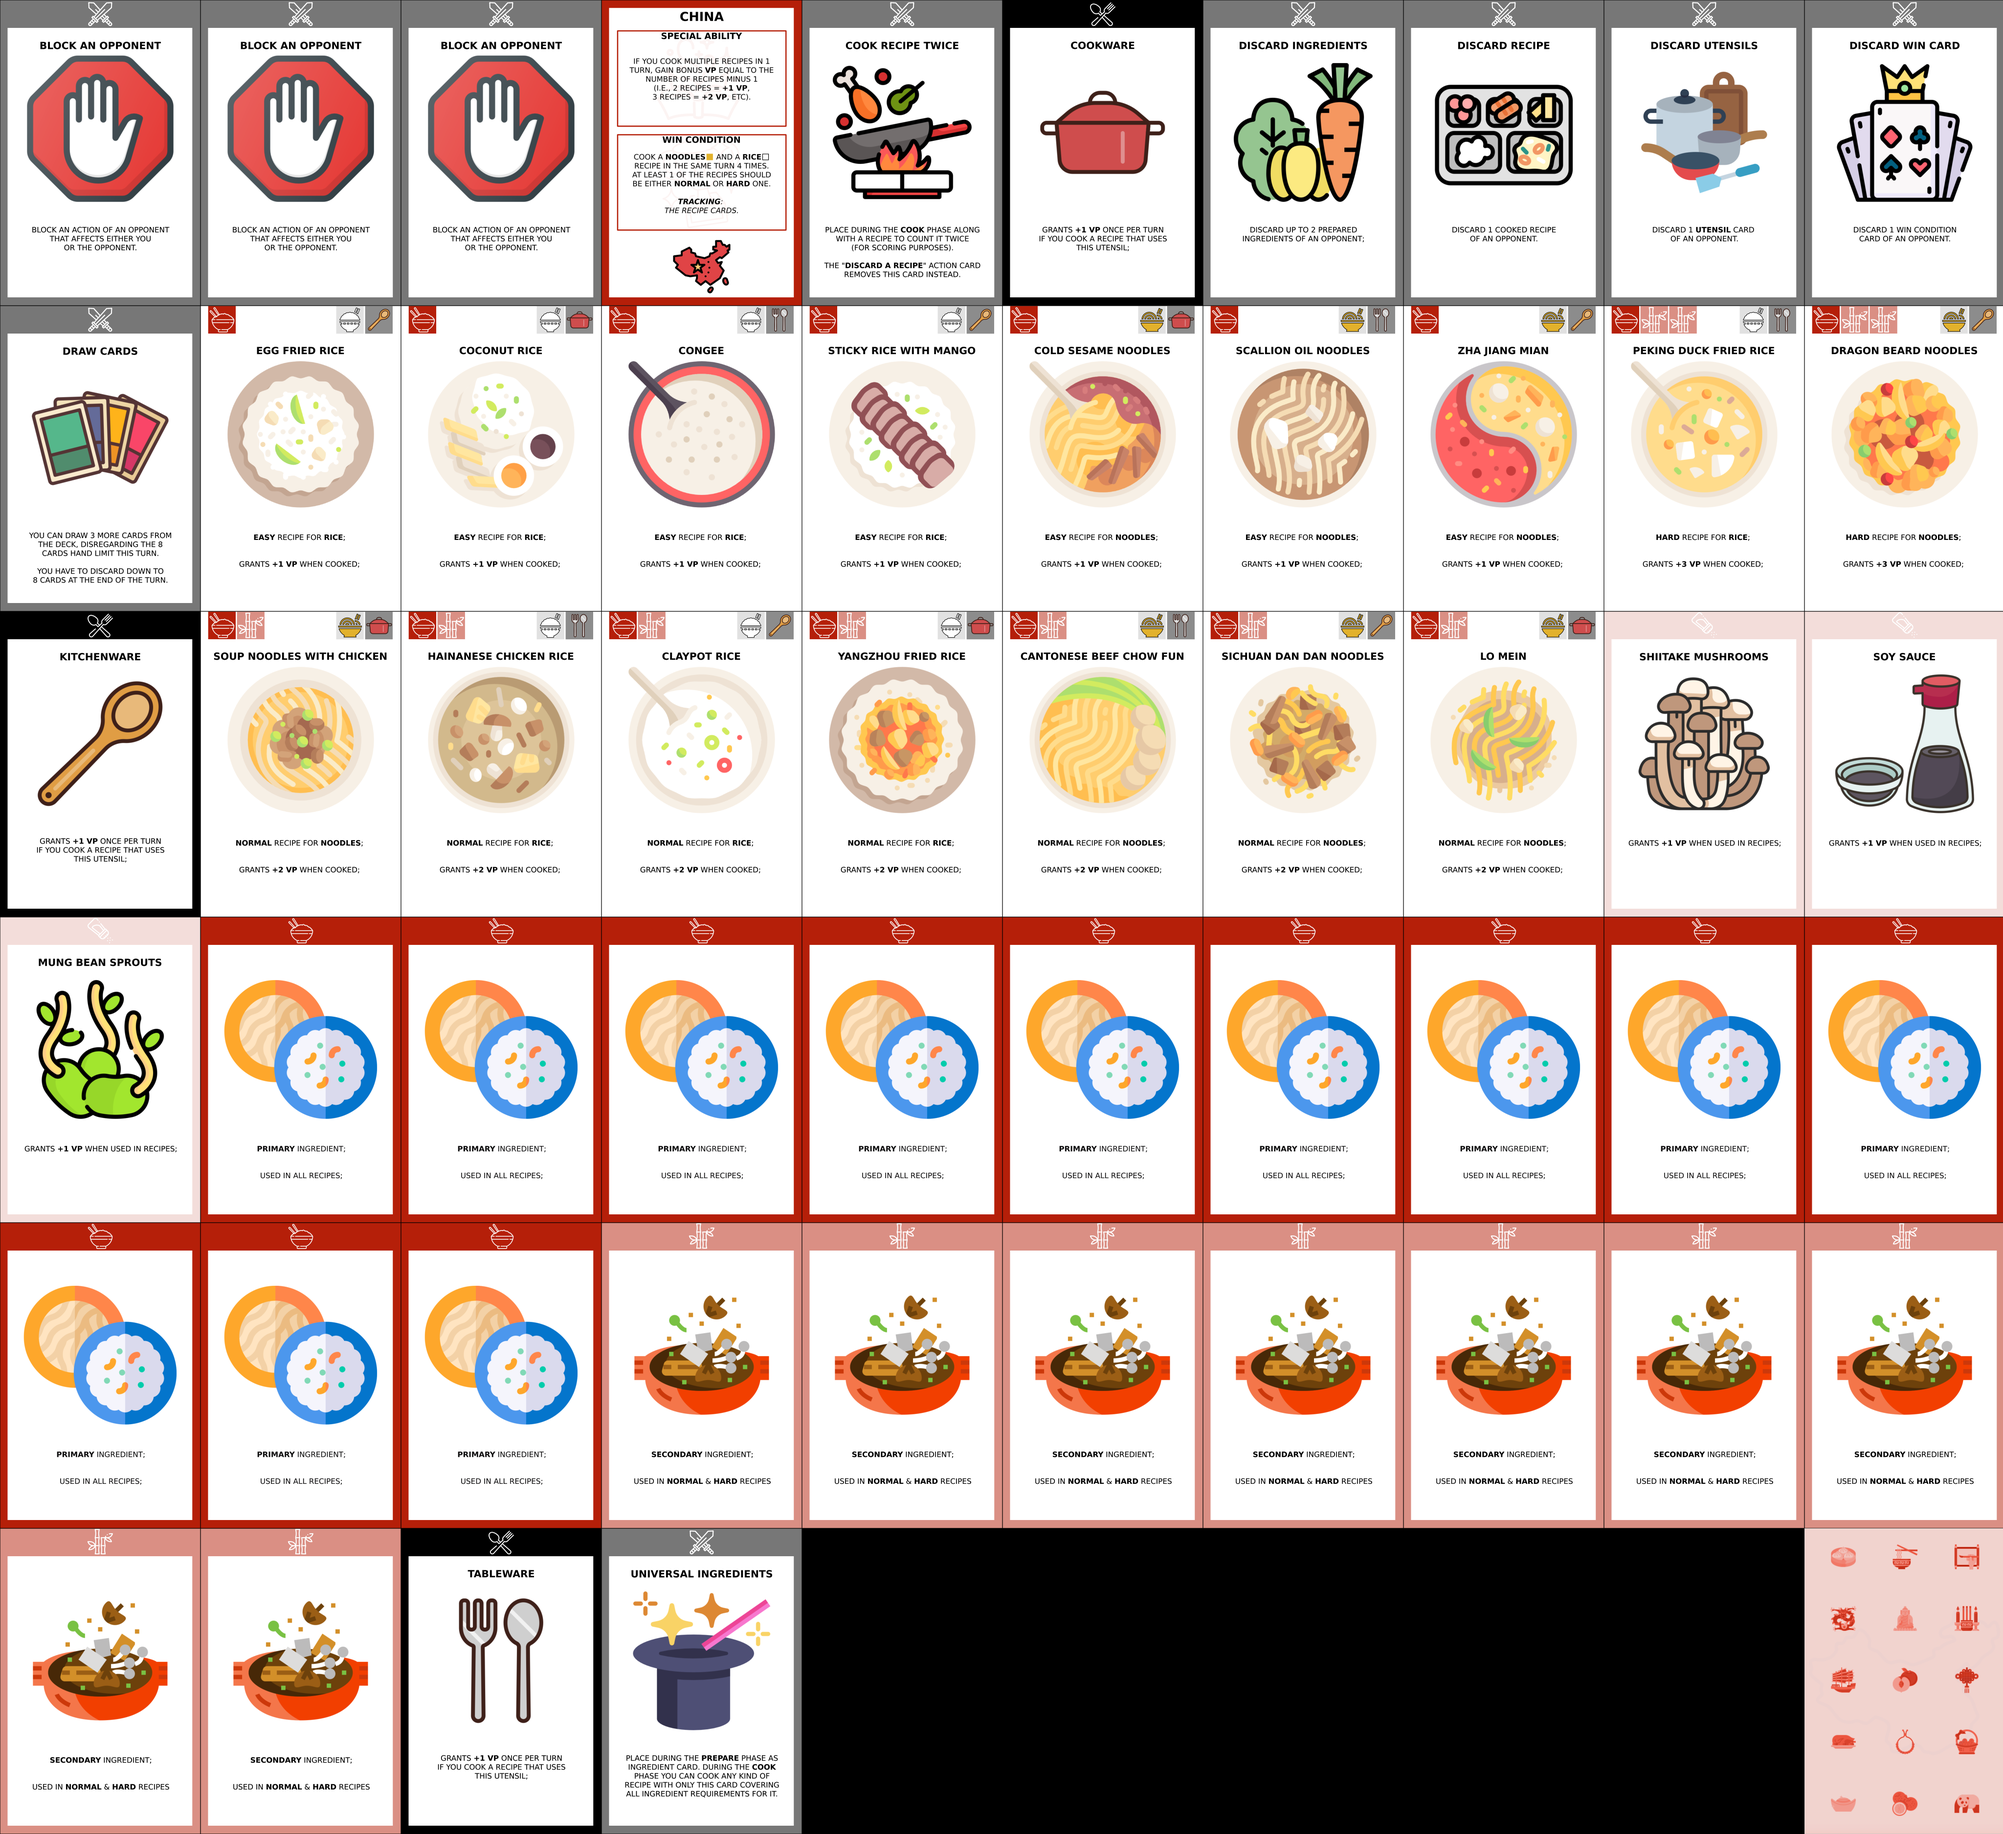
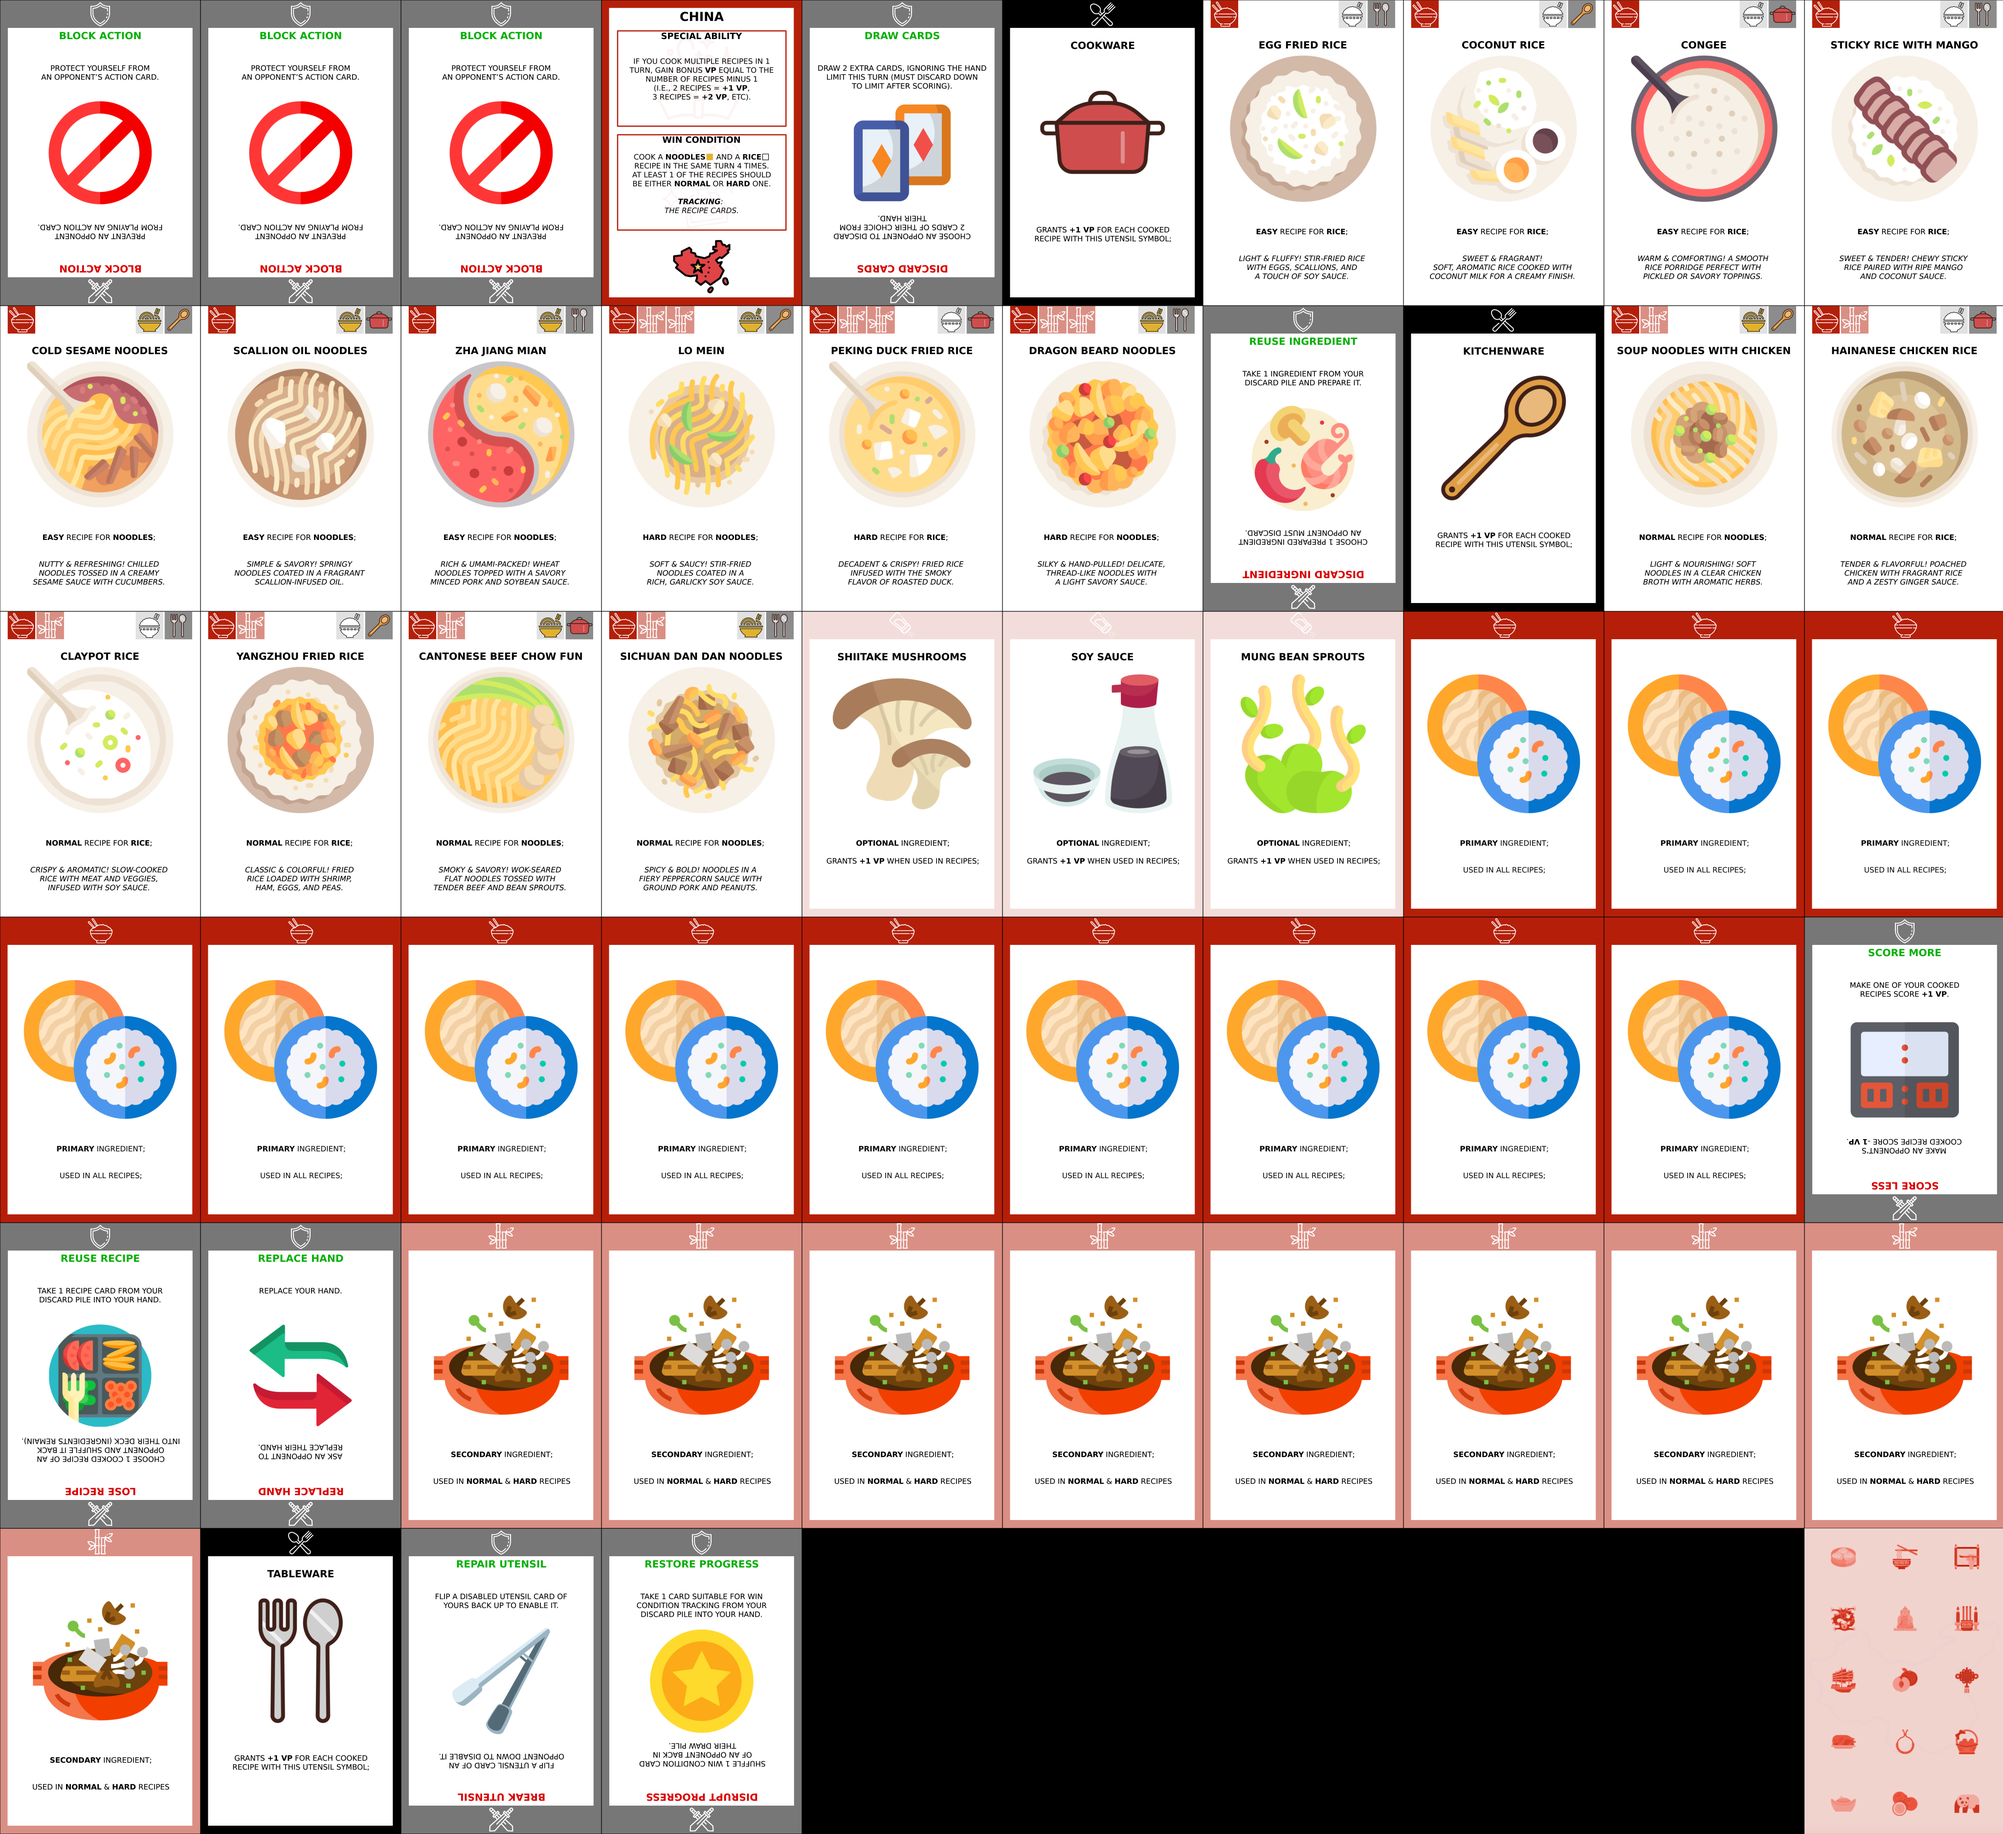
update the base decks

Changed region(s): [[0.0, 0.0, 1.0, 1.0], [0.2188, 0.468, 0.2812, 0.4992]]

diff --git a/meal-mayhem/Decks.md b/meal-mayhem/Decks.md
@@ -37,9 +37,9 @@ grant bonus VP as follows: **normal** recipes grant **+1 VP**; **hard** recipes 
     - Penne (2)
     - Gnocchi (2)
   - Secondary (9)
-  - Optional (3):
+  - Optioanal (3):
     - Basil
-    - Olive Oil
+    - Balsamic Vinegar
     - Parmigiano
 - Recipe Cards (14):
   - Easy Recipes (4)
@@ -84,23 +84,23 @@ VP as follows: **entrée** + **appetizer** = **+1 VP**; **appetizer** + **main**
     - Cream
 - Recipe Cards (15):
   - Easy Recipes (4)
-    - Soupe à l’Oignon (entrée) [kitchenware]
-    - Bouillabaisse (entrée) [cookware]
-    - Garbure (entrée) [tableware]
-    - Tourin (entrée) [kitchenware]
+    - Soupe à l’Oignon (entrée) [cookware]
+    - Bouillabaisse (entrée) [tableware]
+    - Garbure (entrée) [kitchenware]
+    - Tourin (entrée) [cookware]
   - Normal Recipes (8):
-    - Quiche Lorraine (Appetizer) [cookware]
-    - Escargots de Bourguignon (Appetizer) [tableware]
-    - Salade Niçoise (Appetizer) [kitchenware]
-    - Soufflé au Fromage (Appetizer) [cookware]
-    - Ratatouille (Main) [tableware]
-    - Boeuf Bourguignon (Main) [kitchenware]
-    - Châteaubriand (Main) [cookware]
-    - Croque Monsieur (Main) [tableware]
+    - Quiche Lorraine (Appetizer) [tableware]
+    - Escargots de Bourguignon (Appetizer) [kitchenware]
+    - Salade Niçoise (Appetizer) [cookware]
+    - Soufflé au Fromage (Appetizer) [tableware]
+    - Ratatouille (Main) [kitchenware]
+    - Boeuf Bourguignon (Main) [cookware]
+    - Châteaubriand (Main) [tableware]
+    - Croque Monsieur (Main) [kitchenware]
   - Hard Recipes (3):	
-    - Pain Perdu (Dessert) [kitchenware]
-    - Crème Brûlée (Dessert) [cookware]
-    - Tarte Tatin (Dessert) [tableware]
+    - Pain Perdu (Dessert) [cookware]
+    - Crème Brûlée (Dessert) [tableware]
+    - Tarte Tatin (Dessert) [kitchenware]
 - Action Cards (10)
 - Country Card (1)
 </details>
@@ -126,24 +126,24 @@ of recipes minus 1 (i.e. 2 recipes = **+1 VP**, 3 recipes = **+2 VP**, etc.).
     - Mung Bean Sprouts
 - Recipe Cards (16):
   - Easy Recipes (7)
-    - Egg Fried Rice (Rice) [kitchenware]
-    - Coconut Rice (Rice) [cookware]
-    - Congee (Rice) [tableware]
-    - Sticky Rice with Mango (Rice) [kitchenware]
-    - Cold Sesame Noodles (Noodles) [cookware]
-    - Scallion Oil Noodles (Noodles) [tableware]
-    - Zha Jiang Mian (Noodles) [kitchenware]
+    - Egg Fried Rice (Rice) [tableware]
+    - Coconut Rice (Rice) [kitchenware]
+    - Congee (Rice) [cookware]
+    - Sticky Rice with Mango (Rice) [tableware]
+    - Cold Sesame Noodles (Noodles) [kitchenware]
+    - Scallion Oil Noodles (Noodles) [cookware]
+    - Zha Jiang Mian (Noodles) [tableware]
   - Normal Recipes (6):
-    - Soup Noodles with Chicken (Noodles) [cookware]
-    - Hainanese Chicken Rice (Rice) [tableware]
-    - Claypot Rice (Rice) [kitchenware]
-    - Yangzhou Fried Rice (Rice) [cookware]
-    - Cantonese Beef Chow Fun (Noodles) [tableware]
-    - Sichuan Dan Dan Noodles (Noodles) [kitchenware]
+    - Soup Noodles with Chicken (Noodles) [kitchenware]
+    - Hainanese Chicken Rice (Rice) [cookware]
+    - Claypot Rice (Rice) [tableware]
+    - Yangzhou Fried Rice (Rice) [kitchenware]
+    - Cantonese Beef Chow Fun (Noodles) [cookware]
+    - Sichuan Dan Dan Noodles (Noodles) [tableware]
   - Hard Recipes (3)
-    - Lo Mein (Noodles) [cookware]
-    - Peking Duck Fried Rice (Rice) [tableware]
-    - Dragon Beard Noodles (Noodles) [kitchenware]
+    - Lo Mein (Noodles) [kitchenware]
+    - Peking Duck Fried Rice (Rice) [cookware]
+    - Dragon Beard Noodles (Noodles) [tableware]
 - Action Cards (10)
 - Country Card (1)
 </details>
@@ -165,7 +165,7 @@ of recipes minus 1 (i.e. 2 recipes = **+1 VP**, 3 recipes = **+2 VP**, etc.).
   - Secondary (12):
     - Cumin (2)
     - Saffron (2)
-    - Turmeric (2)
+    - Tamarind (2)
     - Coriander (2)
     - Cinnamon (2)
     - Cardamom (2)

diff --git a/meal-mayhem/Rules.md b/meal-mayhem/Rules.md
@@ -109,36 +109,35 @@ place the "Fettuccine" ingredient card in your win condition tracking area.
 
 Can be played with either offensive or defensive effect. Offensive effects are used to disrupt
 opponents. Defensive effects benefit the players themselves. Each deck has the same 10 action cards
-as follows:
+as follows (Offensive [O] and Defensive [D]):
 
-- **Block** (x3)
-  - **Offensive** - Prevent an opponent from playing an action card. 
-  - **Defensive** - Protect yourself from opponent's action card.
+- **Blocking** (x3)
+  - [O] Block Action - Prevent an opponent from playing an action card. 
+  - [D] Block Action - Protect yourself from opponent's action card.
 - **Ingredients**
-  - **Offensive** - Discard Ingredient - Choose 1 prepared ingredient that the opponent should
-  discard.
-  - **Defensive** - Reuse Ingredient - Prepare 1 ingredient directly from your discard pile.
+  - [O] Discard Ingredient - Choose 1 prepared ingredient that the opponent should discard.
+  - [D] Reuse Ingredient - Prepare 1 ingredient directly from your discard pile.
 - **Recipes** 
-  - **Offensive** - Choose 1 cooked recipe of an opponent. Shuffle the recipe card back into their
-  draw deck. The ingredients used for the recipe are saved for future use.
-  - **Defensive** - Take 1 recipe card back from your discard pile to your hand.
+  - [O] Lose Recipe - Choose 1 cooked recipe of an opponent. Shuffle the recipe card back into
+  their draw deck. The ingredients used for the recipe are saved for future use.
+  - [D] Reuse Recipe - Take 1 recipe card back from your discard pile to your hand.
 - **Win Condition Cards**
-  - **Offensive** - Return 1 win condition card of an opponent back to their hand.
-  - **Defensive** - Take 1 card used for win condition tracking from your discard pile to your hand.
+  - [O] Disrupt Progress - Shuffle 1 win condition card of an opponent back in their draw pile.
+  - [D] Restore Progress - Take 1 card suitable for win condition tracking from your discard pile
+  to your hand.
 - **Utensils**
-  - **Offensive** - Choose 1 utensil card of the opponent. They should flip it down so it's no
-  longer in effect.
-  - **Defensive** - Turn a flipped utensil card of yours back up so it's in effect again.
-- **Draw Cards**
-  - **Offensive** - Ask an opponent to discard 2 cards of their choosing from their hand.
-  - **Defensive** - Draw 2 cards from the draw deck, disregarding the 8 cards hand limit this turn 
+  - [O] Break Utensil - Flip a utensil card of an opponent down to disable it.
+  - [D] Repair Utensil - Flip a disabled utensil card of yours back up to enable it.
+- **Drawing Cards**
+  - [O] Discard Cards - Ask an opponent to discard 2 cards of their choosing from their hand.
+  - [D] Draw Cards - Draw 2 cards from the draw deck, disregarding the 8 cards hand limit this turn 
   (you still have to discard down to 8 cards at the end of the turn after scoring if necessary).
 - **Recipe Scores**
-  - **Offensive** - Make an opponent's cooked recipe to score 1 VP less.
-  - **Defensive** - Make a recipe you cooked to score 1 VP more.
-- **Hands**
-  - **Offensive** - Ask an opponent to replace their hand.
-  - **Defensive** - Replace your hand.
+  - [O] Score Less - Make an opponent's cooked recipe to score 1 VP less.
+  - [D] Score More - Make a recipe you cooked to score 1 VP more.
+- **Playing Hands**
+  - [O] Replace Hand - Ask an opponent to replace their hand.
+  - [D] Replace Hand - Replace your hand.
 
 Action cards can only be blocked (so discarded) by the **Block An Action** card. The card can be 
 used cumulatively (so your opponent can block your block, you theirs, etc.). 

diff --git a/meal-mayhem/CHANGELOG.md b/meal-mayhem/CHANGELOG.md
@@ -4,11 +4,17 @@
 
 CHANGES:
 
-* All decks aligned accordingly to have 3 hard recipes.
-* Utensils now grant their bonus for each recipe.
-* Removed limit of 1 optional ingredient per recipe.
+* Various decks adjustments:
+  * All decks aligned to have 3 hard recipes.
+  * Card "design" aligned so that ingredients & recipes are using "Fill color" art instead of
+  borders at random.
+* Utensil adjustments:
+  * Utensil order no longer starts with kitchenware for all decks.
+  * Utensils now grant their bonus for each recipe.
+* Removed max limit of 1 optional ingredient per recipe.
 * Introduced 2 new recipe mechanics and win condition limitation.
 * Action cards redesigned to have offensive and defensive functions.
+
 
 ## [0.4.4]
 
